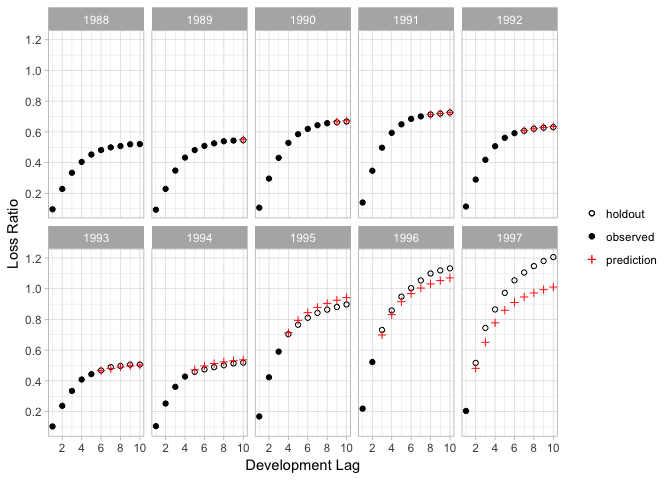
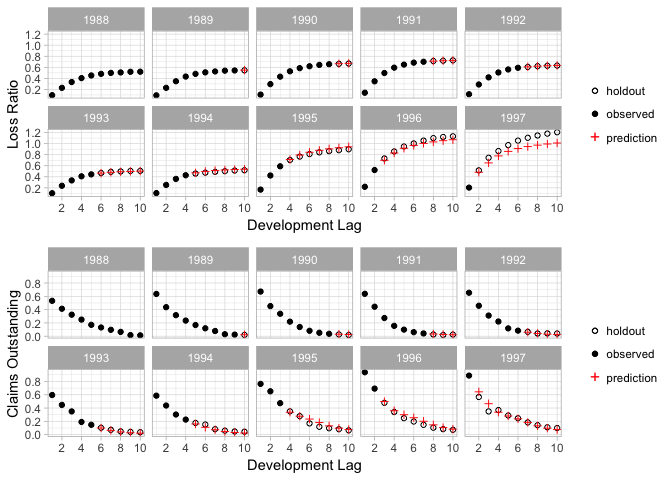
update README

diff --git a/README.md b/README.md
@@ -113,15 +113,26 @@ To create actual vs. predicted plots, use the `dt_plot_predictions()`
 function.
 
 ``` r
-dt_plot_predictions(predictions, "337", "workers_compensation",
+# devtools::install_github("thomasp85/patchwork")
+library(patchwork)
+paid_plot <- dt_plot_predictions(predictions, "337", "workers_compensation",
                     "paid_loss")
+case_plot <- dt_plot_predictions(predictions, "337", "workers_compensation",
+                    "claims_outstanding")
+paid_plot + case_plot + plot_layout(ncol = 1)
 ```
 
 <img src="man/figures/README-unnamed-chunk-5-1.png" width="60%" />
 
-``` r
-dt_plot_predictions(predictions, "337", "workers_compensation",
-                    "claims_outstanding")
-```
+## Testing different architectures
 
-<img src="man/figures/README-unnamed-chunk-6-1.png" width="60%" />
+If you would like to try out different architectures or hyperparameters,
+you can do so by providing a function that returns a compiled keras
+model. See the source code of `dt_model()` for a template. In order to
+utilize other functions in this package, the inputs and outputs of your
+custom function have to match those of `dt_model()`. You can also
+implement different early stopping criteria by providing a function
+similar to `dt_optimize_epochs()`.
+
+For more details on the **keras** R package, visit
+<https://keras.rstudio.com/>.
